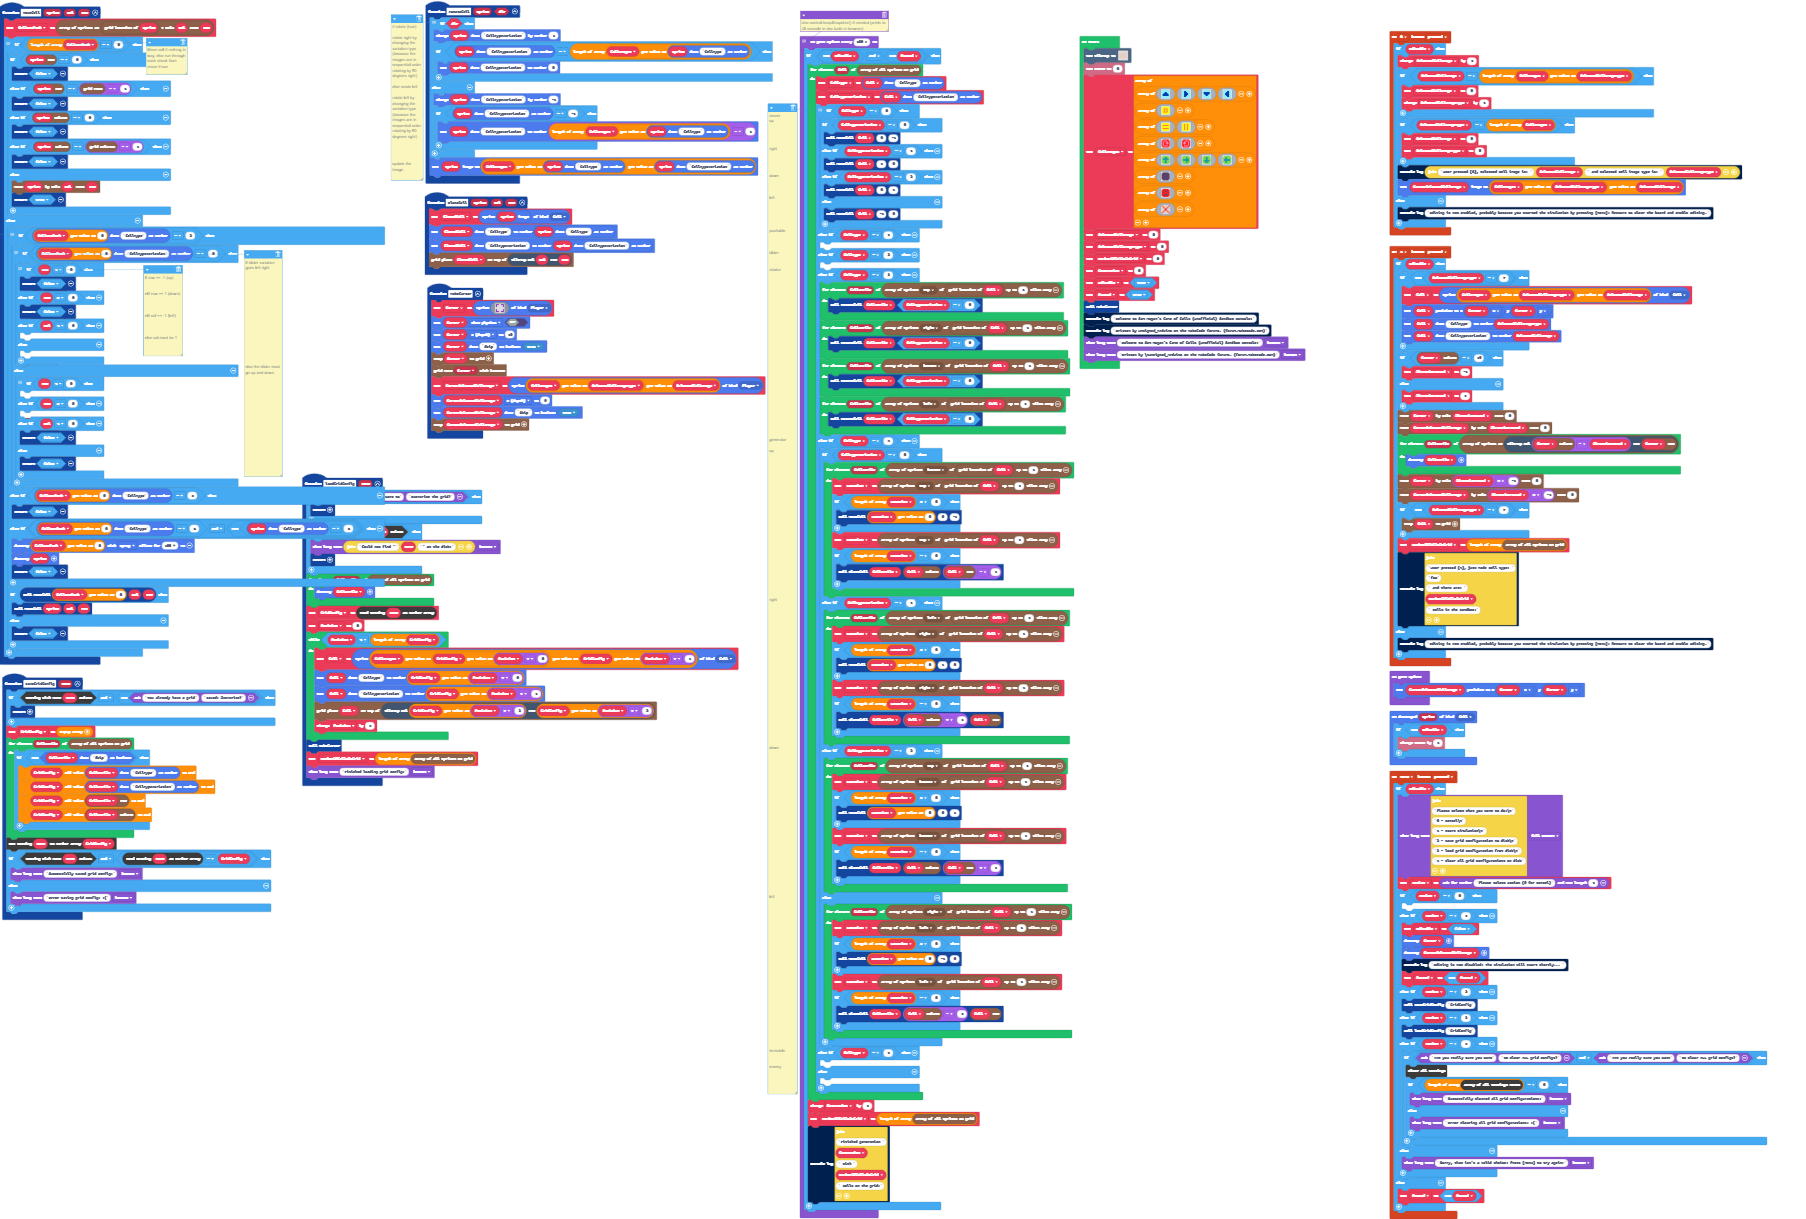
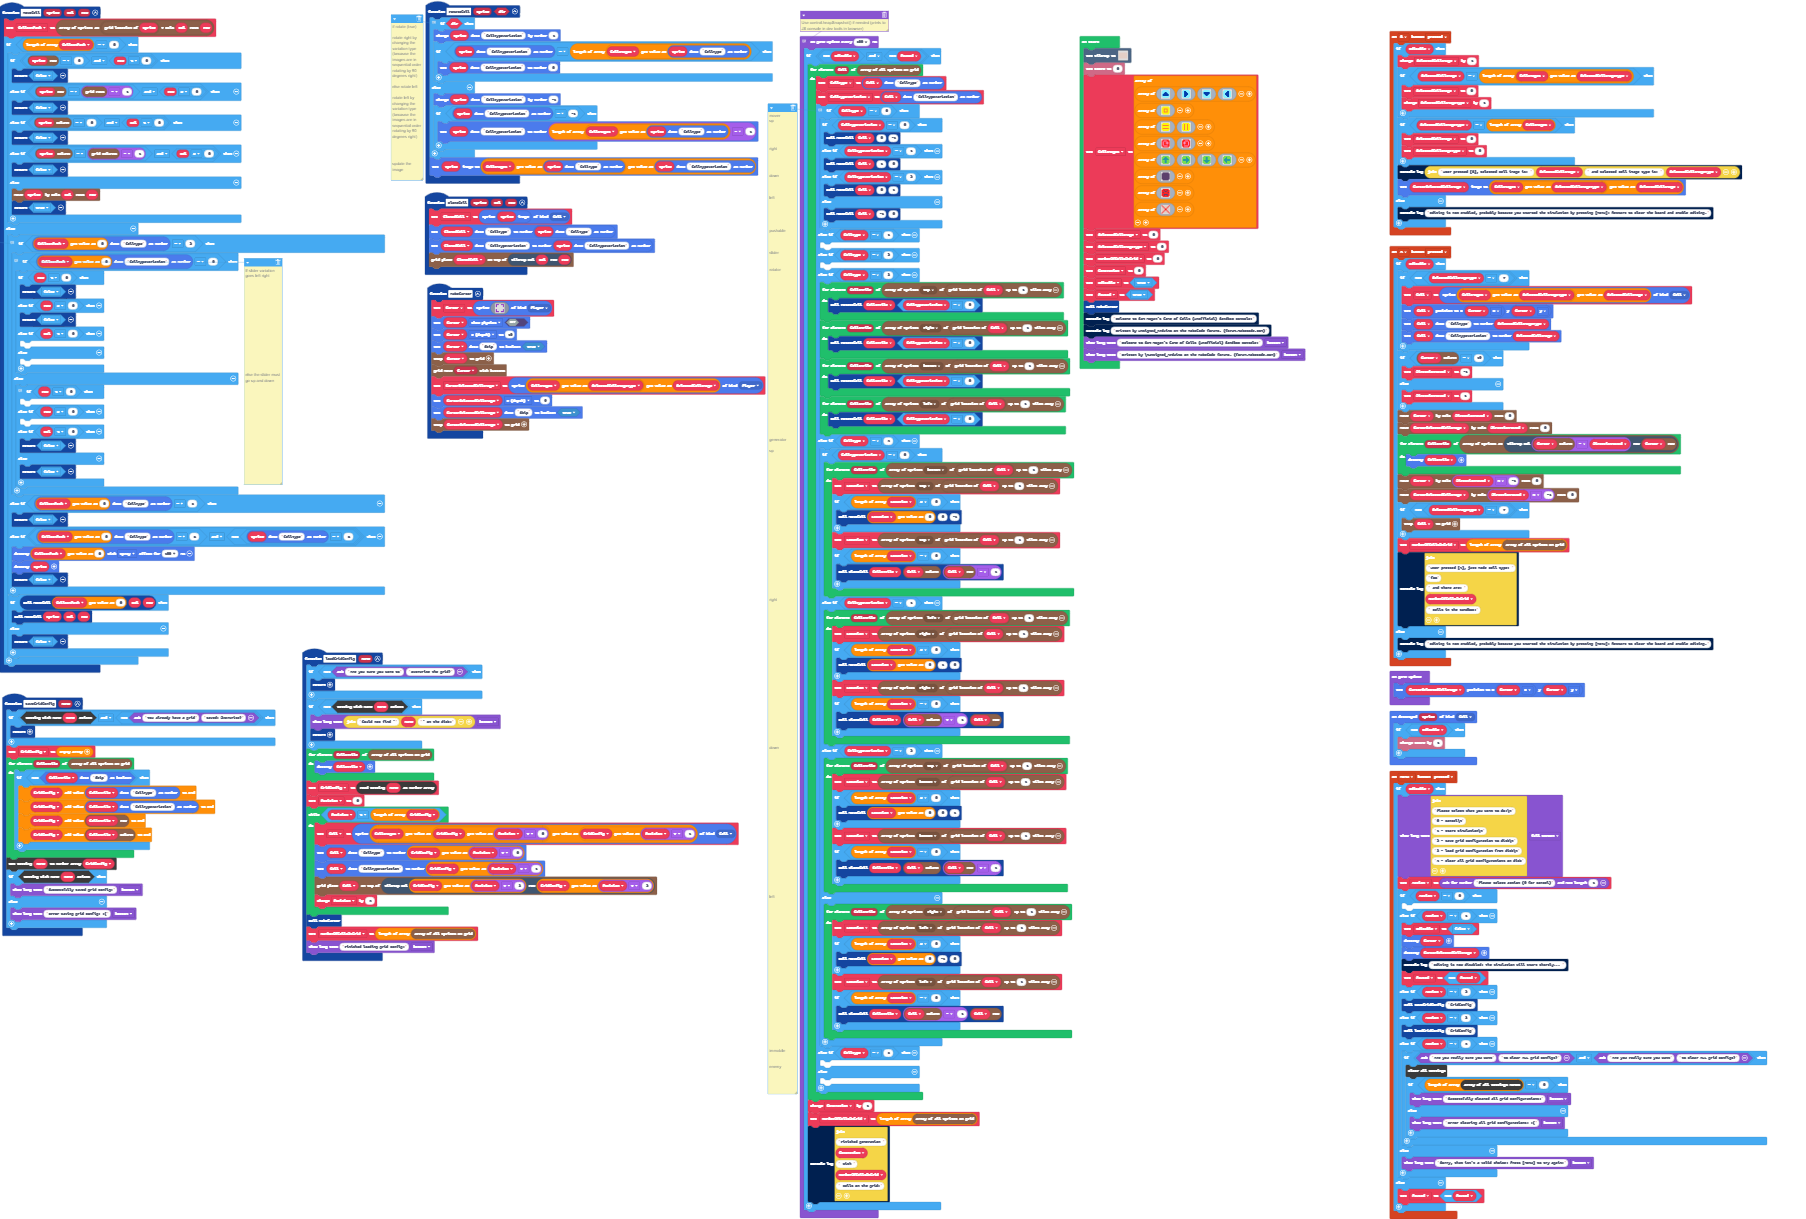
Fixes bug in last commit that you can't move anything next to border

Changed region(s): [[0.0, 0.0312, 0.4341, 0.8105]]

diff --git a/main.ts b/main.ts
@@ -49,15 +49,14 @@ controller.A.onEvent(ControllerButtonEvent.Pressed, function () {
 })
 function moveCell (sprite: Sprite, col: number, row: number): any {
     CellsInPath = grid.getSprites(grid.add(grid.getLocation(sprite), col, row))
-    // Move cell if nothing in way, else run through each check than move if can
     if (CellsInPath.length == 0) {
-        if (grid.spriteRow(sprite) == 0) {
+        if (grid.spriteRow(sprite) == 0 && row < 0) {
             return false
-        } else if (grid.spriteRow(sprite) == grid.numRows() - 1) {
+        } else if (grid.spriteRow(sprite) == grid.numRows() - 1 && row > 0) {
             return false
-        } else if (grid.spriteCol(sprite) == 0) {
+        } else if (grid.spriteCol(sprite) == 0 && col < 0) {
             return false
-        } else if (grid.spriteCol(sprite) == grid.numColumns() - 1) {
+        } else if (grid.spriteCol(sprite) == grid.numColumns() - 1 && col > 0) {
             return false
         } else {
             grid.move(sprite, col, row)
@@ -144,18 +143,6 @@ function moveCell (sprite: Sprite, col: number, row: number): any {
             // 
             // else the slider must go up and down
             if (sprites.readDataNumber(CellsInPath[0], "CellTypeVariation") == 0) {
-                // If row == -1 (up)
-                // 
-                // 
-                // elif row == 1 (down)
-                // 
-                // 
-                // 
-                // elif col == -1 (left)
-                // 
-                // 
-                // 
-                // else col must be 1
                 if (row < 0) {
                     return false
                 } else if (row > 0) {
@@ -280,7 +267,7 @@ function saveGridConfig (name: string) {
         }
     }
     blockSettings.writeNumberArray(name, GridConfig)
-    if (blockSettings.exists(name) && blockSettings.readNumberArray(name) == GridConfig) {
+    if (blockSettings.exists(name)) {
         game.showLongText("Successfully saved grid config!", DialogLayout.Bottom)
     } else {
         game.showLongText("Error saving grid config! :(", DialogLayout.Bottom)
